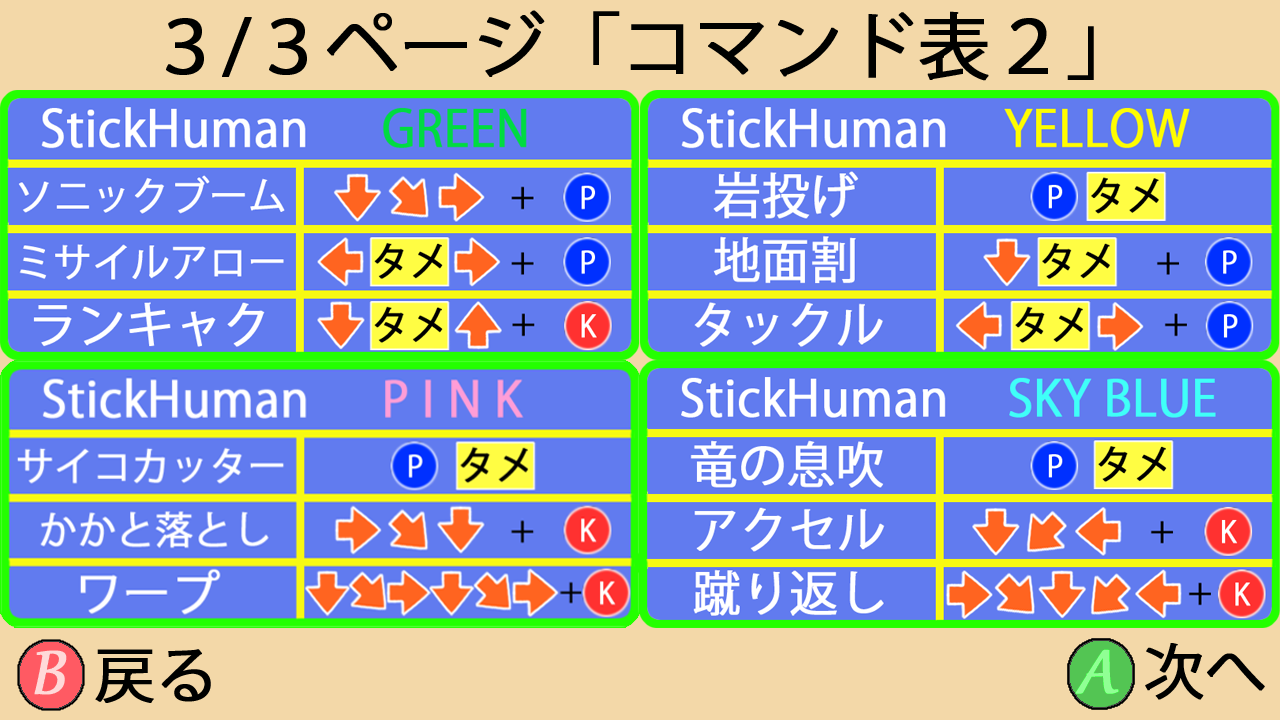
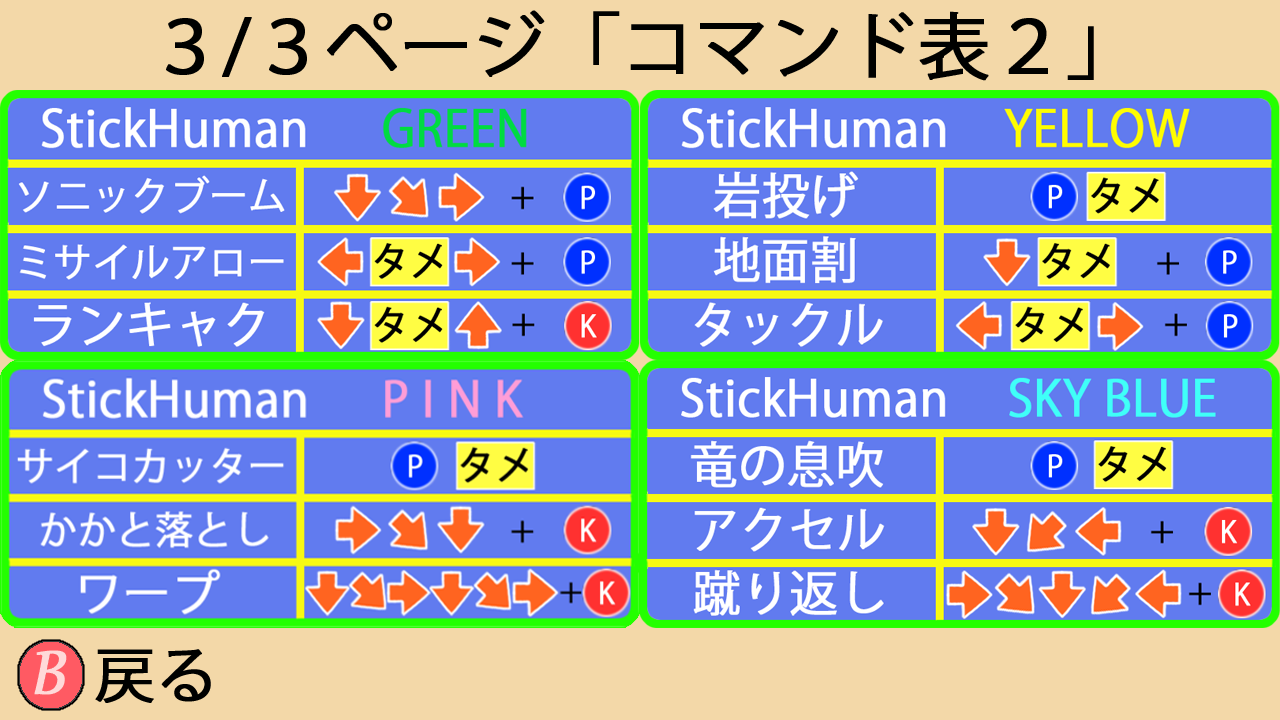
説明シーンの処理追加

Changed region(s): [[0.8125, 0.8861, 1.0, 1.0]]

diff --git a/StickHumanFighters/StickHumanFighters/source/Obj.cpp b/StickHumanFighters/StickHumanFighters/source/Obj.cpp
@@ -263,7 +263,7 @@ const VECTOR2 Obj::GetAnimOffSet(std::string animName)
 
 int Obj::GetFrame()
 {
-	if (!animTable[animName][ANIM_TBL_LOOP] && ( animCnt >= (animTable[animName][ANIM_TBL_INV] * animTable[animName][ANIM_TBL_FRAME])))
+	if (!animTable[animName][ANIM_TBL_LOOP] && ( int(animCnt) >= (animTable[animName][ANIM_TBL_INV] * animTable[animName][ANIM_TBL_FRAME])))
 	{
 			return (animTable[animName][ANIM_TBL_FRAME]-1);
 	}

diff --git a/StickHumanFighters/StickHumanFighters/source/ExplanationScene.h b/StickHumanFighters/StickHumanFighters/source/ExplanationScene.h
@@ -13,11 +13,15 @@ public:
 	unique_Base UpDate(unique_Base own, const GameCtrl &controller);
 
 private:
-
 	int Init();
 	void ExplanationDraw();
 
-	int imageIdx;
+	int frame;
+
+	int page;
+
+	bool sceneChangeFlag;
+	int sceneChangeTime;
 
 	std::vector<int> imageHandle;
 };
